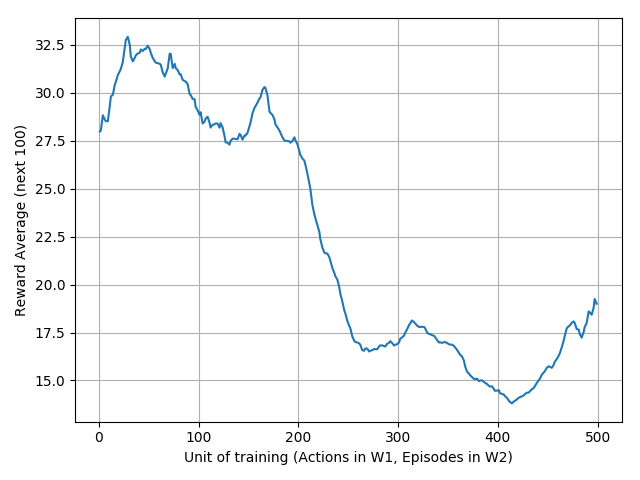
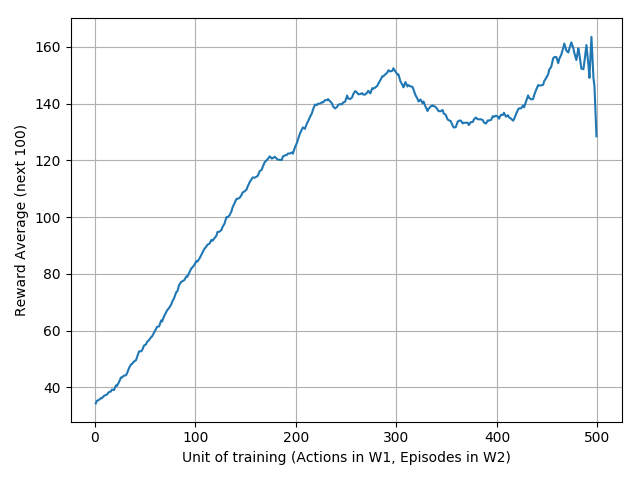
fix bug in qrdqn and replay mem

diff --git a/algorithms/QRDQN.py b/algorithms/QRDQN.py
@@ -23,7 +23,7 @@ class QRQNetwork(object):
 				                         kernel_initializer=tf.initializers.variance_scaling())
 			hidden = tf.layers.dense(hidden, self.n_quantile*self.action_dim, activation=None,
 			                       kernel_initializer=tf.initializers.random_uniform(minval=-3e-3, maxval=3e-3))
-			return tf.reshape(hidden, [tf.shape(states)[0], self.action_dim, self.n_quantile])
+			return tf.reshape(hidden, [-1, self.action_dim, self.n_quantile])
 
 
 class QRDQN(object):
@@ -83,6 +83,8 @@ class QRDQN(object):
 		target_action_indices = tf.concat([batch_indices, target_action], axis=1)
 		target_quantiles = tf.gather_nd(target_network_output,
 										target_action_indices)
+		print_op = tf.print(self.rewards)
+		#with tf.control_dependencies([print_op]):
 		target_Z = tf.expand_dims(self.rewards, axis=1) + tf.expand_dims(self.are_non_terminal, axis=1) * \
 		           np.power(self.gamma, self.N) * target_quantiles
 		
@@ -222,5 +224,5 @@ class QRDQN(object):
 		states.append(state)
 		assert len(states)  == len(actions)+1 and \
 		       len(actions) == len(rewards)
-
+		#print("epi reward: {}".format(rewards))
 		return states, actions, rewards

diff --git a/algorithms/common.py b/algorithms/common.py
@@ -40,7 +40,7 @@ class Replay_Memory():
 		if self.is_full:
 			high = self.memory_size
 		else:
-			high = len(self.states)
+			high = self.cursor
 		indices = np.random.randint(low=0, high=high, size=batch_size)
 		return self.states[indices], \
 		       self.actions[indices], \
